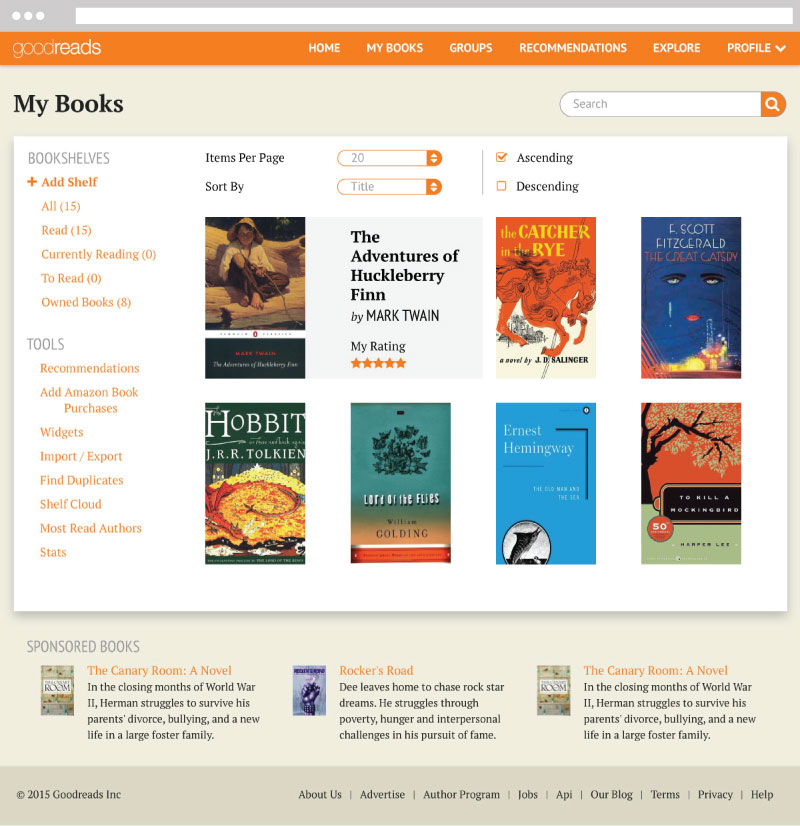
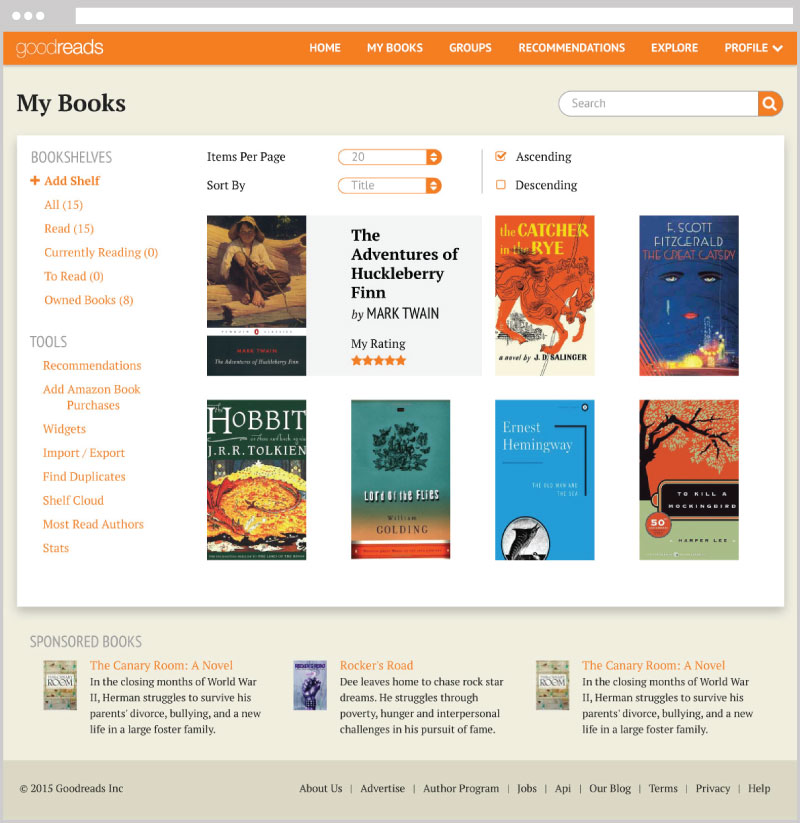
Add border to screenshot images, edit text on buzz project page, create extras project page.

diff --git a/buzz.html b/buzz.html
@@ -56,7 +56,7 @@ permalink: buzz/
     <section class="challenges">
         <div class="summary">
             <h2>Challenges</h2>
-            <p>There were a number of challenges I faced during the course of this project, but the biggest was time management. Even with prior experience designing and coding, I found it hard to stay on track with the schedule I laid out for myself. When I felt behind, I got anxious. So I would stay up late and wake up early in an effort to keep up. After a while it caught up with me. When I caught myself making mistakes I wouldn't normally make, I decided that was it. I went to bed early that night, didn't wake up quite as early in the morning, and the next day I was much more productive.</p>
+            <p>There were a number of challenges I faced during the course of this project, but the biggest was making time to rest. Even with prior experience designing and coding, I worried about staying on track with the schedule I laid out for myself. I felt anxious about whether or not I'd be able to complete everything on time. So I would stay up late and wake up early in an effort to keep up. After a while it caught up with me. When I caught myself making mistakes I wouldn't normally make, I decided that was it. I went to bed early that night, didn't wake up quite as early in the morning, and the next day I was much more productive.</p>
         </div>
         <div class="image">
             <img src="{{ post.url | prepend: site.baseurl }}/img/buzz_leaders.png">

diff --git a/extras.html b/extras.html
@@ -1,11 +1,11 @@
 ---
 layout: default
-permalink: goodreads/
+permalink: extras/
 ---
 
 <div class="project-title">
-    <h1 id="fittext2">GoodReads</h1>
-    <p>See the project <a href="https://github.com/amacduff/tiy_assignments/tree/master/goodreads" target="_blank">on GitHub</a>.</p>
+    <h1 id="fittext2">Extras</h1>
+    <p>View the <a href="https://invis.io/MY516U6JB" target="_blank">InVision prototype</a>.</p>
 </div>
 
 <main class="process">
